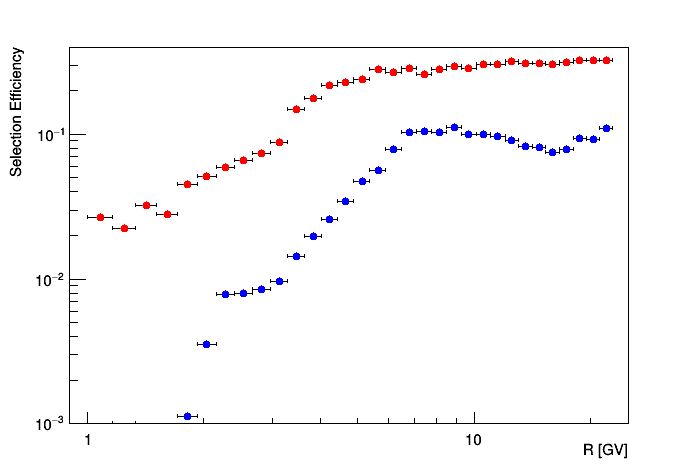
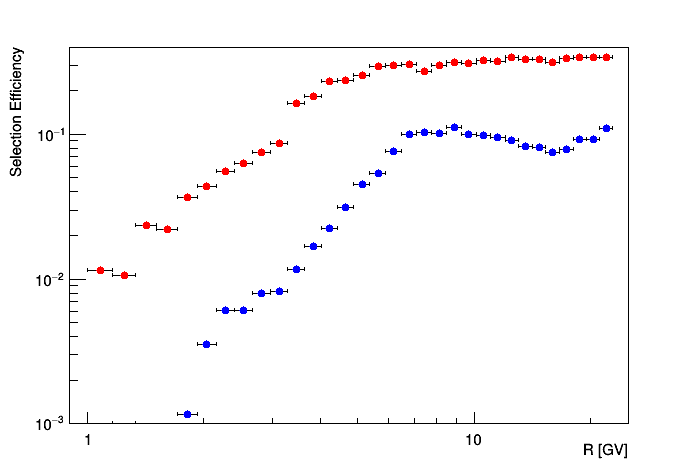
update 12-12-20

diff --git a/ProtonAnalysis.C b/ProtonAnalysis.C
@@ -111,7 +111,7 @@ class Anaaqra {
     void Exposure();                            // Returns exposure time (livetime) as function of rigidity
     void Acceptance(bool apply_cuts = 0);       // Returns (geometric) acceptance as function of rigidity
     void CutEff();                              // Returns the cut (selection) efficiency as function of rigidity
-    void TrigEff();                             // Returns the trigger efficiency as function of rigidity
+    void TrigEff(int delta = 100);              // Returns the trigger efficiency as function of rigidity
     // Plural (dependent)
     void ProtonRate();                          // Returns the proton rate as function of rigidity
     void ProtonFlux();                          // Returns the proton flux as function of rigidity
@@ -495,6 +495,10 @@ void Anaaqra::Exposure() {
 // Returns TH1F of the geometric Acceptance
 void Anaaqra::Acceptance(bool apply_cuts = 0) {
 
+  // Clear histogram
+  MC_detected->Reset("ICESM");
+  MC_generated->Reset("ICESM");
+
   // Loop over MC root files individually
   for (int i=0; i<13; i++) {
 
@@ -581,7 +585,7 @@ void Anaaqra::Acceptance(bool apply_cuts = 0) {
   accept_graph->SetMarkerSize(1);
   accept_graph->SetMarkerColor(kRed);
   // Axes
-  c_Accept->SetLogy();
+  accept_graph->SetMinimum(0); accept_graph->SetMaximum(0.4);
   accept_graph->GetXaxis()->SetTitle("R [GV]");
   accept_graph->GetYaxis()->SetTitle("Acceptance [m^2 sr]");
   // Print
@@ -614,16 +618,16 @@ void Anaaqra::CutEff() {
     MC_chain->GetEntry(i);
 
     // Fill base histograms
-    if (EventSelectorCompact(MC_comp, "10000111")) {Btof_MC->Fill(MC_comp->trk_rig[0]);}
-    if (EventSelectorCompact(MC_comp, "10111000")) {Btrk_MC->Fill(MC_comp->trk_rig[0]);}
+    if (EventSelectorCompact(MC_comp, "11000111")) {Btof_MC->Fill(MC_comp->trk_rig[0]);}
+    if (EventSelectorCompact(MC_comp, "11111000")) {Btrk_MC->Fill(MC_comp->trk_rig[0]);}
 
     // Fill cut histograms
-    if (EventSelectorCompact(MC_comp, "10100111")) {Cpar_MC->Fill(MC_comp->trk_rig[0]);}
-    if (EventSelectorCompact(MC_comp, "10010111")) {Ccon_MC->Fill(MC_comp->trk_rig[0]);}
-    if (EventSelectorCompact(MC_comp, "10001111")) {Cbet_MC->Fill(MC_comp->trk_rig[0]);}
-    if (EventSelectorCompact(MC_comp, "10111100")) {Cchi_MC->Fill(MC_comp->trk_rig[0]);}
-    if (EventSelectorCompact(MC_comp, "10111010")) {Cinn_MC->Fill(MC_comp->trk_rig[0]);}
-    if (EventSelectorCompact(MC_comp, "10111001")) {Clay_MC->Fill(MC_comp->trk_rig[0]);}
+    if (EventSelectorCompact(MC_comp, "11100111")) {Cpar_MC->Fill(MC_comp->trk_rig[0]);}
+    if (EventSelectorCompact(MC_comp, "11010111")) {Ccon_MC->Fill(MC_comp->trk_rig[0]);}
+    if (EventSelectorCompact(MC_comp, "11001111")) {Cbet_MC->Fill(MC_comp->trk_rig[0]);}
+    if (EventSelectorCompact(MC_comp, "11111100")) {Cchi_MC->Fill(MC_comp->trk_rig[0]);}
+    if (EventSelectorCompact(MC_comp, "11111010")) {Cinn_MC->Fill(MC_comp->trk_rig[0]);}
+    if (EventSelectorCompact(MC_comp, "11111001")) {Clay_MC->Fill(MC_comp->trk_rig[0]);}
 
   }
 
@@ -660,17 +664,17 @@ void Anaaqra::CutEff() {
     Simp_chain->GetEntry(i);
 
     // Fill base histograms
-    if (EventSelectorSimple(Tool, "100001111")) {Btof_data->Fill(Tool->trk_rig);}
-    if (EventSelectorSimple(Tool, "101110000")) {Btrk_data->Fill(Tool->trk_rig);}
+    if (EventSelectorSimple(Tool, "110001111")) {Btof_data->Fill(Tool->trk_rig);}
+    if (EventSelectorSimple(Tool, "111110000")) {Btrk_data->Fill(Tool->trk_rig);}
 
     // Fill cut histograms
-    if (EventSelectorSimple(Tool, "101001111")) {Cpar_data->Fill(Tool->trk_rig);}
-    if (EventSelectorSimple(Tool, "100101111")) {Ccon_data->Fill(Tool->trk_rig);}
-    if (EventSelectorSimple(Tool, "100011111")) {Cbet_data->Fill(Tool->trk_rig);}
-    if (EventSelectorSimple(Tool, "101111000")) {Cchi_data->Fill(Tool->trk_rig);}
-    if (EventSelectorSimple(Tool, "101110100")) {Cinn_data->Fill(Tool->trk_rig);}
-    if (EventSelectorSimple(Tool, "101110010")) {Clay_data->Fill(Tool->trk_rig);}
-    if (EventSelectorSimple(Tool, "101110001")) {Cgeo_data->Fill(Tool->trk_rig);}
+    if (EventSelectorSimple(Tool, "111001111")) {Cpar_data->Fill(Tool->trk_rig);}
+    if (EventSelectorSimple(Tool, "110101111")) {Ccon_data->Fill(Tool->trk_rig);}
+    if (EventSelectorSimple(Tool, "110011111")) {Cbet_data->Fill(Tool->trk_rig);}
+    if (EventSelectorSimple(Tool, "111111000")) {Cchi_data->Fill(Tool->trk_rig);}
+    if (EventSelectorSimple(Tool, "111110100")) {Cinn_data->Fill(Tool->trk_rig);}
+    if (EventSelectorSimple(Tool, "111110010")) {Clay_data->Fill(Tool->trk_rig);}
+    if (EventSelectorSimple(Tool, "111110001")) {Cgeo_data->Fill(Tool->trk_rig);}
 
   }
 
@@ -778,7 +782,7 @@ void Anaaqra::CutEff() {
 
 
 // Returns TH1F of the trigger efficiency
-void Anaaqra::TrigEff() {
+void Anaaqra::TrigEff(int delta = 100) {
 
   // Loop over MC entries
   for (int i=0; i<MC_chain->GetEntries(); i++) {
@@ -836,7 +840,7 @@ void Anaaqra::TrigEff() {
     if (PhysHist_data->GetBinContent(i+1) == 0) {
       TrigEff_data->SetBinContent(i+1, 0);
     } else {
-      TrigEff_data->SetBinContent(i+1, PhysHist_data->GetBinContent(i+1) / (PhysHist_data->GetBinContent(i+1) + 100 * UnphHist_data->GetBinContent(i+1)));
+      TrigEff_data->SetBinContent(i+1, PhysHist_data->GetBinContent(i+1) / (PhysHist_data->GetBinContent(i+1) + delta * UnphHist_data->GetBinContent(i+1)));
     }
 
   }
